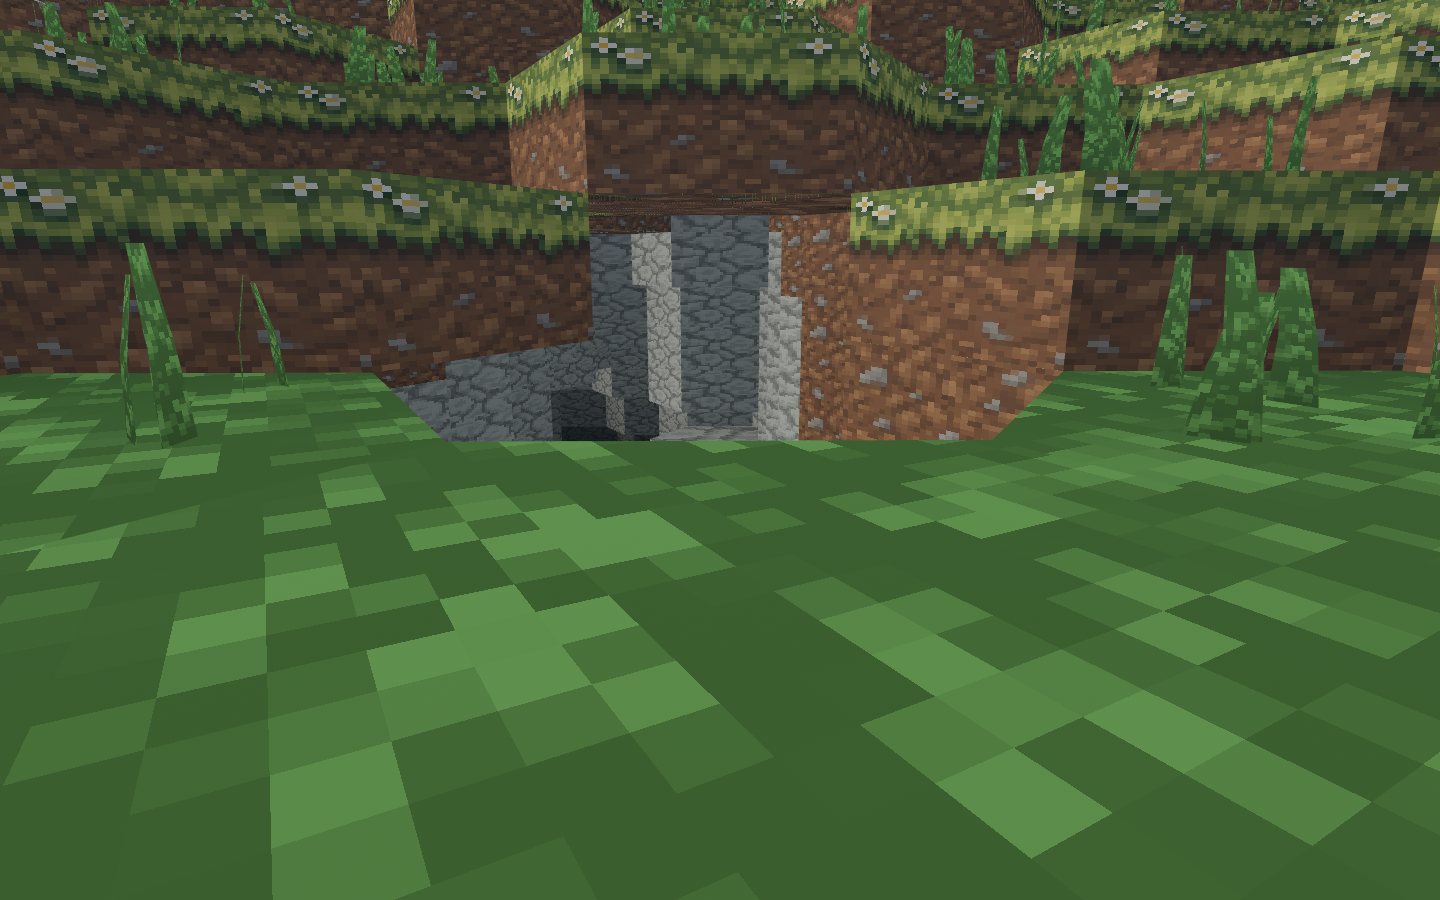
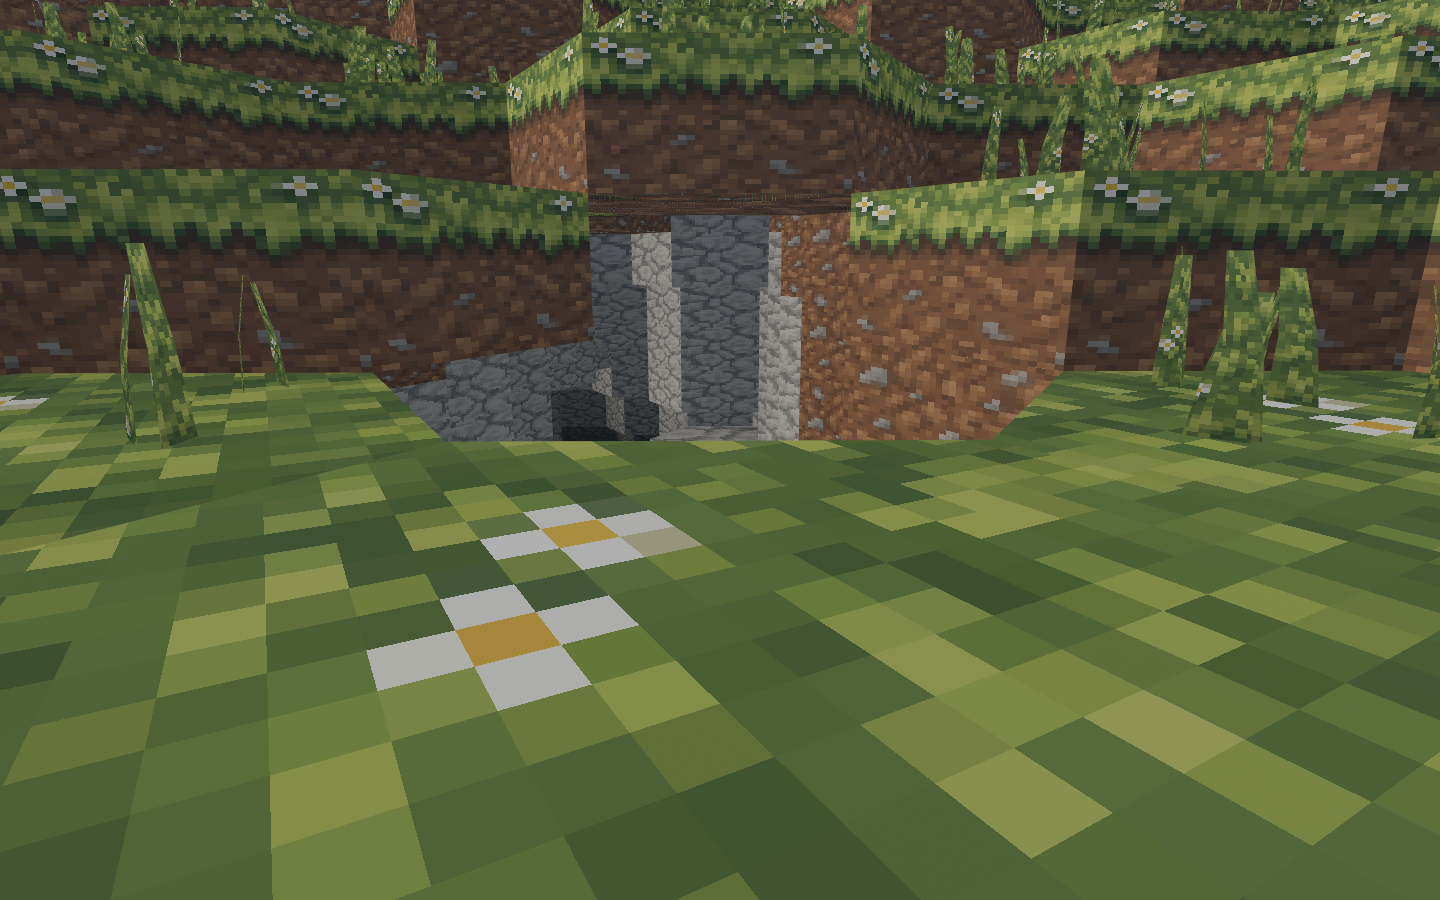
A cap draws its tile's colours: the grass top is the grass art, not a tint
The owner, off the pit pictures: "are you using the right top face of
the hex grass?" No. A wall has drawn the atlas's colours since the face
tiles landed, but a cap still went through the older path - a flat base
per material, multiplied by the luminance of its tile and clamped - so a
meadow was flat green paper with the sward's brightness stamped on it,
and the grass art showed nowhere but the top metre of a wall, which is
the transition tile. Tenebris draws grass.png on the top, dirt_grass.png
on the side and dirt.png underneath: three pictures, none of them a
tint.

Every cap draws its tile's colours now, exactly as a wall does, fading
to the material's flat base at the same range a wall fades to its mean,
so the distant look is what it was and the near look is the art. One
path for a face's colour. The tile each code was already sampling for
its brightness is the tile it draws, because those choices were already
the material's.

Screenshots before and after, and the pit and the mouth retaken.

Claude-Session: https://claude.ai/code/session_01FtTp6tWS8dfbCwnWCgqWaQ

diff --git a/openspec/changes/preview-scale-and-shader-parity/design.md b/openspec/changes/preview-scale-and-shader-parity/design.md
@@ -184,6 +184,34 @@ Measured shares, so the work has a before: at the default spawn a wall face is
 drawn stone-by-altitude or grass-by-collapse on every one of the tier's 3,105
 columns, and the transition tile is drawn 0 times.
 
+### The cap never drew its own tile either
+
+The owner, off the pit pictures: "are you using the right top face of the hex
+grass?" No. The walls draw the atlas's COLOURS since the section above landed
+(`code >= DIRT_CODE` samples the transition or the earth), but a CAP still went
+through the older path: a flat `base` colour per material, multiplied by the
+LUMINANCE of its tile, clamped to `0.55..1.65`. So a meadow was flat green paper
+with the sward tile's brightness stamped on it, and the one place the grass art
+showed at all was the top metre of a wall, which is the transition tile. The
+reference draws a grass block's top with `grass.png` itself
+(`face_tile(Grass, Top)`), its side with `dirt_grass.png`, and its bottom with
+`dirt.png`: three pictures, none of them a tint.
+
+Every cap draws its tile's colours now, exactly as a wall does, and fades to
+the material's flat `base` at the same range the wall fades to `GROUND_MEAN`,
+so the distant look is byte-for-byte what it was and the near look is the
+art. One path for a face's colour rather than one for caps and one for walls.
+The tile each code was already sampling for its brightness is the tile it now
+draws - `(0,0)` the ground for the sward, jungle and marsh, `(3,2)` for sand,
+`(3,0)` for stone and snow, the bark and the leaves for a tree - because those
+choices were already the material's, only their colour was not.
+
+`docs/screenshots/cap-tint-before.png` and `cap-art-after.png` are a meadow on
+each; `dig-pit-after.png` and `column-mouth.png` are retaken with it. The
+cap's texel is coarser than a wall's - about 13 cm against 5 - and that is the
+reference's own proportion: Tenebris spans the middle 60% of a 16-texel tile
+across a hex (28 cm a texel) and a full 16 down each metre of a side.
+
 ## Why the flat tile matters more here than there
 
 `@interpolate(flat)` on skylight costs Tenebris almost nothing across a 2.8 m

diff --git a/openspec/changes/preview-scale-and-shader-parity/tasks.md b/openspec/changes/preview-scale-and-shader-parity/tasks.md
@@ -92,6 +92,8 @@ planet. What is open is the radius, since the two are locked by
 - [x] Re-tune the tree geometry in `planet_surface.wgsl`, which is authored for
       the old scale: trunks span 18 m and canopies reach 33 m, against roughly
       6 m for a Tenebris tree.
+- [x] A cap draws its tile's colours, as a wall does, fading to its flat base
+      at range: the grass top is the grass art, not a tint of its brightness.
 - [x] Re-tune the atlas UV divisors, `/28.0` on the cap and `/18.` down a wall,
       which were chosen against a 19 m tile.
 - [x] Update the pinned tile width in
